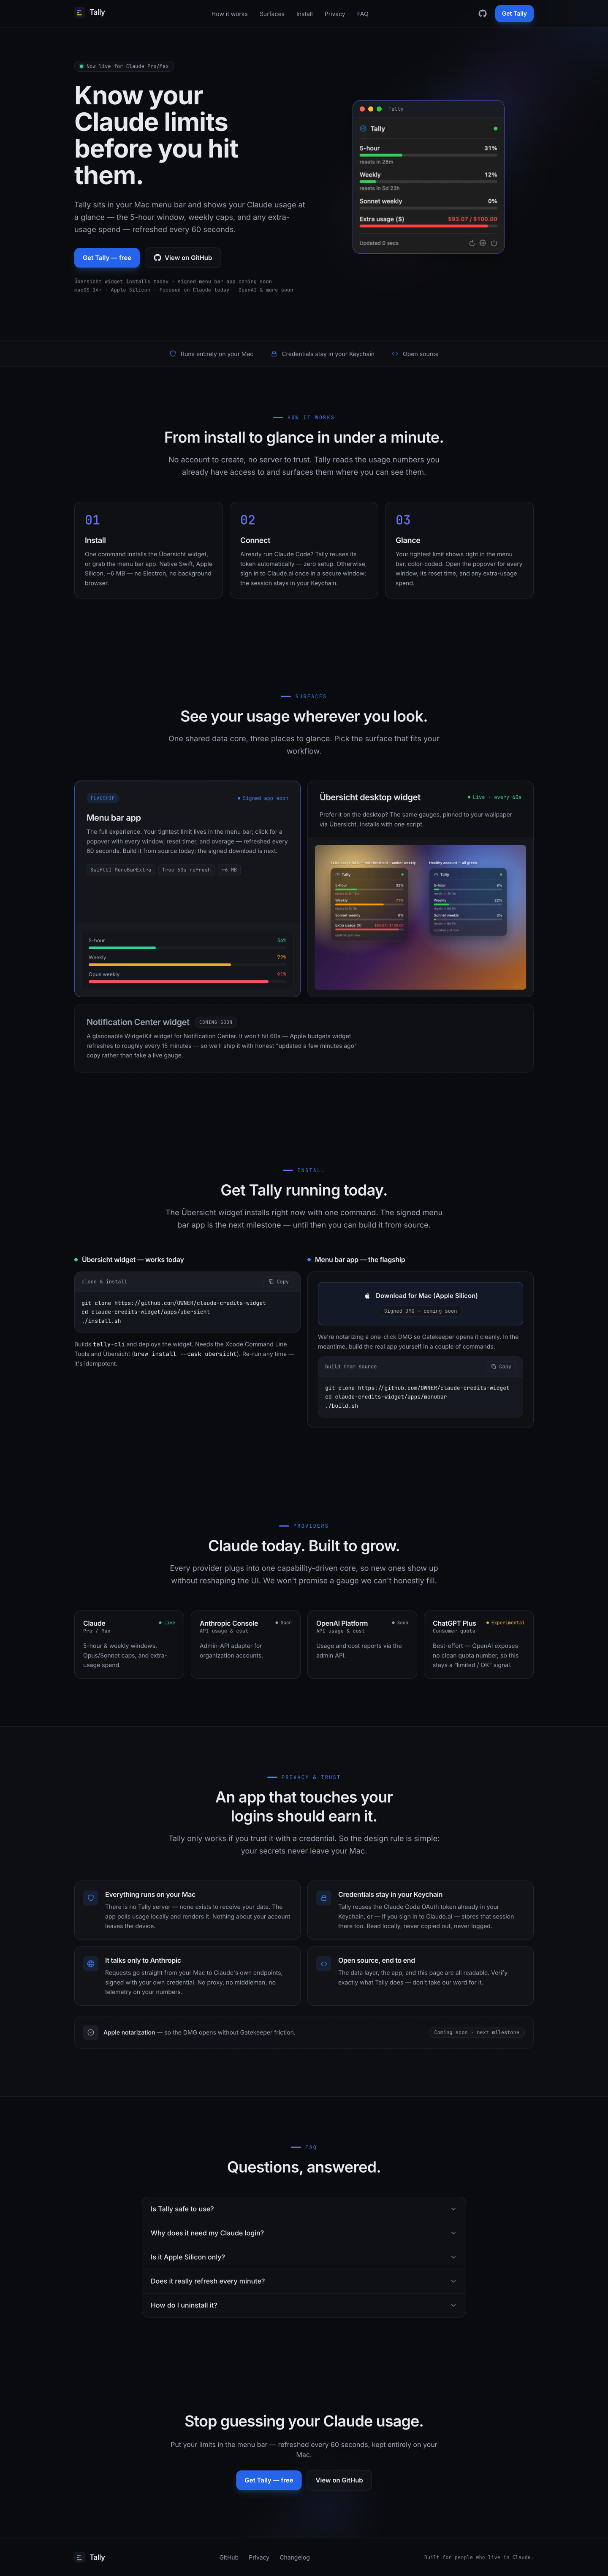
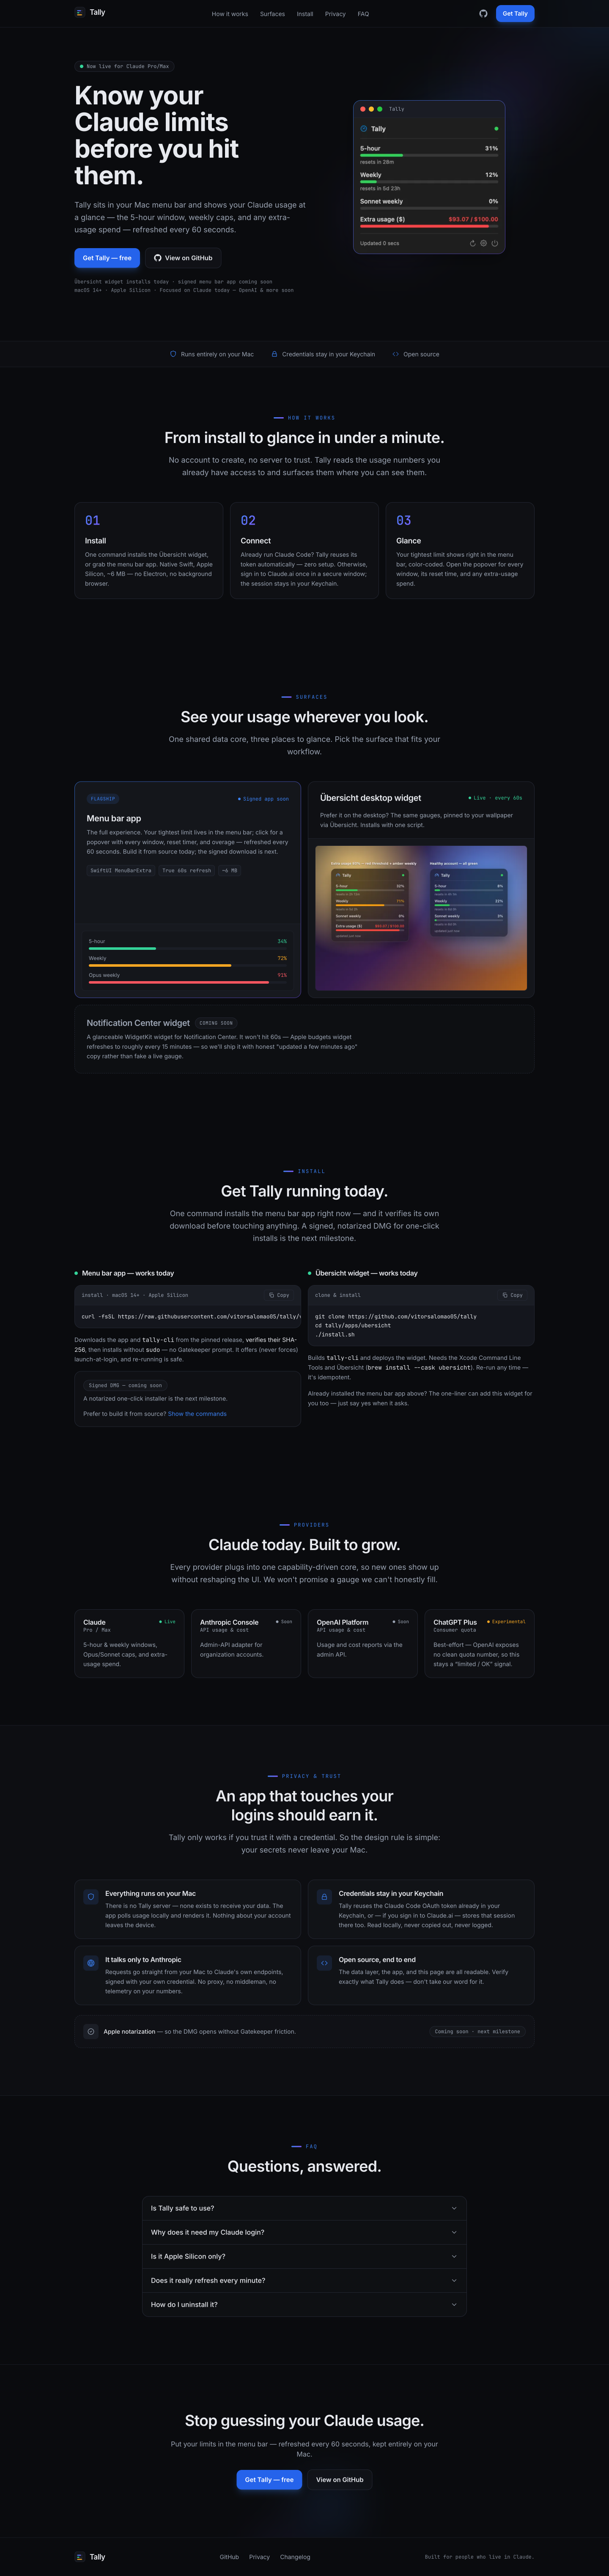
feat(dist): one-liner install + public release wiring (Phase 6)
Distribute Tally by link with a transparent, checksum-verified installer and
wire the site to the real public repo (vitorsalomao05/tally).

- install.sh (repo root): `curl | bash` installer. Refuses non Apple-Silicon /
  macOS <14, downloads Tally.app + tally-cli from the pinned v0.1.0 Release,
  VERIFIES SHA-256 against SHASUMS256.txt before installing (aborts on
  mismatch), installs without sudo (~/Applications + ~/.local/bin), offers
  (never forces) launch-at-login and the Übersicht widget, idempotent, prints
  uninstall steps. Never reads or logs the Claude token.
- menubar: add --register-login-item / --unregister-login-item flags via
  SMAppService.mainApp (same path as the Settings toggle), used by install.sh.
- site: real GitHub + Releases URLs; one-liner is now the primary, works-today
  install path (with copy button); Signed DMG stays an honest "coming soon"
  (downloadDmg still null). Repo/clone URLs updated to vitorsalomao05/tally.
- README: documented install one-liner + repo references.
- re-rendered home screenshots (desktop + mobile).

diff --git a/site/src/config.ts b/site/src/config.ts
@@ -1,6 +1,6 @@
 // Central configuration — every external URL the site links to lives here so
-// Phase 6 (signed distribution) can plug in real artifacts without touching a
-// single component. Search this file for "TODO(phase 6)".
+// distribution can plug in real artifacts without touching a single component.
+// Search this file for "TODO(phase 6)" for the links a future milestone fills in.
 
 export const site = {
   name: "Tally",
@@ -14,30 +14,34 @@ export const site = {
 };
 
 export const links = {
-  // TODO(phase 6): replace OWNER with the real GitHub org/user once public.
-  github: "https://github.com/OWNER/claude-credits-widget",
-  // TODO(phase 6): signed + notarized DMG (Apple Silicon) on GitHub Releases.
+  github: "https://github.com/vitorsalomao05/tally",
+  // TODO(future): signed + notarized DMG (Apple Silicon) on GitHub Releases.
   //   null → the UI renders the honest "Signed DMG — coming soon" state.
   downloadDmg: null as string | null,
-  // TODO(phase 6): releases / changelog page.
-  changelog: "https://github.com/OWNER/claude-credits-widget/releases",
+  // Releases / changelog page.
+  changelog: "https://github.com/vitorsalomao05/tally/releases",
 };
+
+// The fastest path that WORKS TODAY for the menu bar app: a one-liner that
+// downloads the ad-hoc-signed Tally.app + tally-cli from the pinned v0.1.0
+// Release, verifies their SHA-256 against SHASUMS256.txt, then installs them
+// (no sudo). Pinned to the tag, so the bytes you run are the bytes we shipped.
+export const installOneLiner =
+  "curl -fsSL https://raw.githubusercontent.com/vitorsalomao05/tally/v0.1.0/install.sh | bash";
 
 // The install path that WORKS TODAY for the Übersicht desktop widget: clone the
 // repo and run its idempotent installer (builds tally-cli + deploys the widget).
 export const installUbersicht = [
-  // TODO(phase 6): real clone URL.
-  "git clone https://github.com/OWNER/claude-credits-widget",
-  "cd claude-credits-widget/apps/ubersicht",
+  "git clone https://github.com/vitorsalomao05/tally",
+  "cd tally/apps/ubersicht",
   "./install.sh",
 ].join("\n");
 
 // Build-from-source path for the menu bar app — works today once the repo is
 // cloned (an honest, copyable recipe rather than a deep link to a private blob).
 export const installMenubar = [
-  // TODO(phase 6): real clone URL.
-  "git clone https://github.com/OWNER/claude-credits-widget",
-  "cd claude-credits-widget/apps/menubar",
+  "git clone https://github.com/vitorsalomao05/tally",
+  "cd tally/apps/menubar",
   "./build.sh",
 ].join("\n");
 

diff --git a/apps/menubar/Sources/Tally/SelfTest.swift b/apps/menubar/Sources/Tally/SelfTest.swift
@@ -71,6 +71,26 @@ enum SelfTest {
         exit(0)
     }
 
+    // MARK: Login-item registration (used by install.sh)
+
+    /// Register or unregister the *installed* app as a login item via the same
+    /// `SMAppService.mainApp` path the Settings toggle uses — so the installer's
+    /// "start at login" offer stays consistent with what the UI shows. Prints the
+    /// resulting status (an ad-hoc build can land in `.requiresApproval`, which the
+    /// user then approves in System Settings ▸ General ▸ Login Items). Idempotent:
+    /// `register()` is guarded on the current status. Exits non-zero only on a
+    /// thrown error so callers (install.sh) can react.
+    static func setLoginItem(_ enable: Bool) {
+        MainActor.assumeIsolated {
+            let launch = LaunchAtLogin()
+            let ok = launch.setEnabled(enable)
+            let verb = enable ? "register" : "unregister"
+            err("login-item \(verb): \(launch.statusText)")
+            if let e = launch.lastError { err("login-item \(verb) error: \(e)") }
+            exit(ok ? 0 : 1)
+        }
+    }
+
     // MARK: Launch-at-login
 
     /// Exercises SMAppService for real and reports what an ad-hoc signed build

diff --git a/apps/menubar/Sources/Tally/Main.swift b/apps/menubar/Sources/Tally/Main.swift
@@ -24,6 +24,16 @@ enum Main {
             SelfTest.launchTest()
             return
         }
+        // Headless login-item toggles used by install.sh (offer at install,
+        // cleanup at uninstall) — same SMAppService path as the Settings toggle.
+        if args.contains("--register-login-item") {
+            SelfTest.setLoginItem(true)
+            return
+        }
+        if args.contains("--unregister-login-item") {
+            SelfTest.setLoginItem(false)
+            return
+        }
         TallyMenuBarApp.main()
     }
 }

diff --git a/README.md b/README.md
@@ -1,7 +1,20 @@
 # Tally — your AI usage, always in sight
 
-> Working codename: **Tally** (changeable). Repo: `claude-credits-widget`.
+> Working codename: **Tally** (changeable). Repo: [`vitorsalomao05/tally`](https://github.com/vitorsalomao05/tally).
 > Target: **macOS 14+ / Apple Silicon only**. June 2026.
+
+## Install (macOS 14+, Apple Silicon)
+
+```sh
+curl -fsSL https://raw.githubusercontent.com/vitorsalomao05/tally/v0.1.0/install.sh | bash
+```
+
+Downloads the ad-hoc-signed `Tally.app` + `tally-cli` from the pinned
+[`v0.1.0` release](https://github.com/vitorsalomao05/tally/releases/tag/v0.1.0),
+**verifies their SHA-256** against `SHASUMS256.txt`, then installs without `sudo`
+(app → `~/Applications`, CLI → `~/.local/bin`). It offers (never forces) launch
+at login and the Übersicht widget, and is safe to re-run. Read it first — it's at
+[`install.sh`](install.sh). A signed, notarized DMG is the next milestone.
 
 Tally is a lightweight macOS app that keeps your **AI subscription usage / remaining credits** visible at a glance and refreshes about **every 60 seconds**. It ships in three surfaces, all installable from the landing site:
 
@@ -29,7 +42,7 @@ See `PROVIDERS.md` for the adapter contract and `ARCHITECTURE.md` for the system
 ## Repo layout
 
 ```
-claude-credits-widget/
+tally/
 ├── README.md            ← this file
 ├── ARCHITECTURE.md      ← system design + diagram
 ├── DECISIONS.md         ← ADRs (why menu bar, why no 60s widget, distribution…)
@@ -42,7 +55,8 @@ claude-credits-widget/
 │   ├── widget/          ← WidgetKit extension (glanceable)
 │   └── ubersicht/       ← single .jsx desktop widget
 ├── site/                ← Astro + Tailwind landing page
-└── scripts/             ← sign/notarize, install.sh, release automation
+├── install.sh           ← one-liner installer (verified download from Releases)
+└── scripts/             ← sign/notarize, release automation
 ```
 
 ## Privacy posture